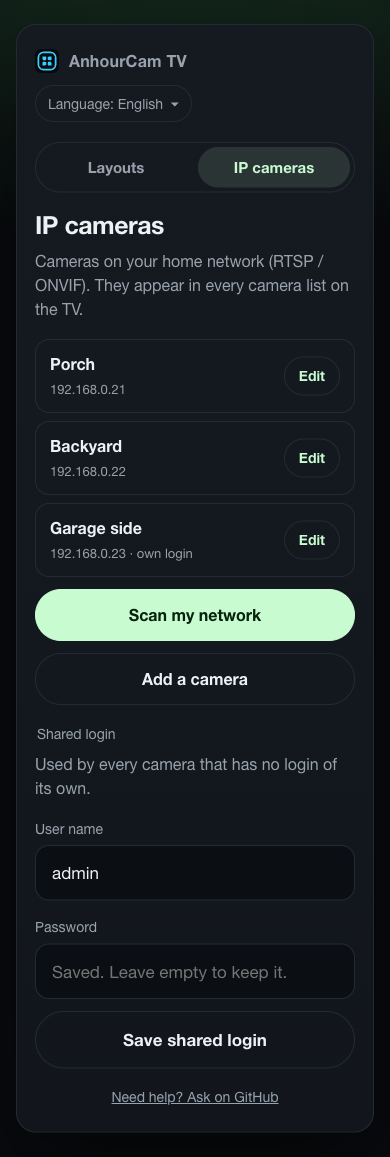
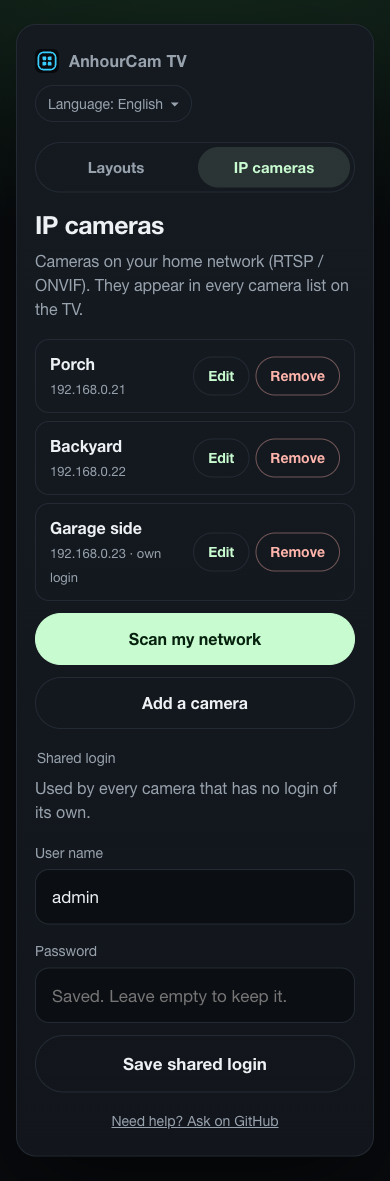
docs: add the Xiaomi Mi Box 4K as a tested device

diff --git a/docs/devices/xiaomi-mi-box-4k.md b/docs/devices/xiaomi-mi-box-4k.md
@@ -1,0 +1,56 @@
+# Xiaomi Mi Box 4K (Amlogic), Android TV 9
+
+The project's second test device (model string `MIBOX4`, device `oneday`): an older Android TV
+streamer, tested on 2026-10-30. Useful as the "older Android" check: Android 9 lacks many newer
+JDK methods that the desktop-built modules could accidentally use.
+
+| | |
+|---|---|
+| OS | Android TV 9 (API 28), Xiaomi build, Google Play present |
+| SoC | Amlogic, `gxl` platform (S905X family), **32-bit apps** (`armeabi-v7a`) |
+| RAM | 2 GB (`MemTotal` 2,034,840 kB) |
+| Output | 1920×1080 UI (4K video capable) |
+| Debugging | Developer options → USB debugging also opens **network ADB on port 5555**: `adb connect <ip>:5555`, accept "Allow USB debugging?" on the TV. No pairing code (that is Android 11+). |
+
+## Video decoders (from `/vendor/etc/media_codecs.xml`)
+
+| Decoder | Type | Max size | Concurrent instances (declared) |
+|---|---|---|---|
+| `OMX.amlogic.hevc.decoder.awesome` | **hardware** H.265 | 3840×2160 | 9 |
+| `OMX.amlogic.avc.decoder.awesome` | **hardware** H.264 | 3840×2160 | 9 |
+| `OMX.google.hevc.decoder` | software H.265 | 4096×4096 | CPU-bound |
+| `OMX.google.h264.decoder` | software H.264 | 2048×2048 | CPU-bound |
+
+The declared 9 instances is an upper bound from the vendor file, not a measured number; the
+decoder budget treats it as 9 hardware slots (+ 2 software). How many tiles really stay smooth is
+still to be measured (open question #28).
+
+## Measured with AnhourCam TV (2026-10-30)
+
+- Install, launch, sign-in screen (1080p), phone pairing page and BitVision sign-in from a phone:
+  **work**.
+- App footprint with a 2×2 grid: ~98 MB RSS / 34 MB PSS, ~28 % of one core.
+- 2×2 BitVision grid while the Google TV was streaming the **same NVR channels** at the same time:
+
+| Tile | Stream | Decoder | Result |
+|---|---|---|---|
+| HOME CH1 | 720×480 SD | hardware | 26 fps, first picture after 19 s |
+| HOME CH3 | SD | hardware | live in 5 s |
+| admin CH1 | 720×576 SD | hardware | 20 fps, 1 drop, **picture black** (camera or decoder: checking) |
+| HOME CH2, admin CH2 | SD | — | "No video": both were also playing on the Google TV (suspected NVR stream limit, #19/#29) |
+| HOME CH4 | — | — | no camera on that input (as on every device, #9) |
+
+## Bugs this device found (fixed)
+
+1. **Crash when the phone opened the pairing page**: `ByteArrayOutputStream.toString(Charset)` is
+   Android 13+; the TV crashed with `NoSuchMethodError`. A full scan found 12 more calls newer
+   than the app's minimum (Android 7.1): `URLDecoder.decode(String, Charset)` (13+), `java.time`
+   and `java.util.Base64` (8+). All replaced; `scripts/check-android-api.py` now runs in
+   `./gradlew check` so the pure-JVM modules can never use APIs newer than minSdk again.
+2. **"Use IP cameras only" was clipped** below the on-TV sign-in card on 960×540 dp screens; moved
+   to the bottom of the phone column.
+
+## Setup gotcha on the maintainer's network
+
+The Mi Box first reported an address (`<IP_1>`) that an IP camera also uses (same address, ARP showed
+the camera's MAC prefix): the Mi Box was unreachable. Fixed by giving it a free static address.

diff --git a/docs/sessions/2026-10-30-mi-box.md b/docs/sessions/2026-10-30-mi-box.md
@@ -1,0 +1,19 @@
+# 2026-10-30 — Second test device: Xiaomi Mi Box 4K
+
+## Done
+- Found the Mi Box on the network: it shared `<IP_1>` with an IP camera (ARP: camera MAC
+  prefix); the maintainer gave it a free static address. Network ADB on 5555 after USB debugging.
+- `MIBOX4`, Android 9 (API 28), Amlogic `gxl`, 2 GB, hardware HEVC/AVC decoders (9 declared each).
+- Crash when the phone opened the pairing page: `ByteArrayOutputStream.toString(Charset)` is API 33.
+  Wrote `scripts/check-android-api.py` (javap + SDK `api-versions.xml`), found 13 calls newer than
+  minSdk 25 in `:pairing` / `:ipcam` (API 33 and 26), replaced them all, and added the check to
+  `./gradlew check`.
+- "Use IP cameras only" was clipped on 960×540 dp screens: moved to the phone column.
+- Dashboard: each IP camera row has a Remove button with a confirmation page; removing a camera
+  clears it from every layout on the TV.
+- Maintainer signed in to BitVision on the Mi Box from a phone; tiles play on hardware decoders.
+
+## Open
+- Channels also playing on the Google TV showed "No video" on the Mi Box (#29), one tile black (#30),
+  real tile limit (#28). Experiment: stop the Google TV, watch the Mi Box tiles recover.
+- Another Android 6.0 MStar TV on the LAN has network ADB open; below minSdk, not used.

diff --git a/docs/open-questions.md b/docs/open-questions.md
@@ -31,3 +31,6 @@ Anything not directly observed. Code that relies on one of these carries `// INF
 | 24 | H.264 decoder count on the test TV | open (inferred) | H.264 tiles take a slot from the shared HEVC budget and use the TV's AVC decoder of the same kind; verify with an H.264 camera |
 | 26 | Real bitrate of the RTSP sub-stream | **resolved** | Saved 10 s clip (never viewed, deleted): ffmpeg decoded 250/250 frames, 0 errors, 1280×720 HEVC Main, VPS/SPS/PPS + 1 IDR + 249 P. Low bitrate = still night scene |
 | 27 | Cameras with broken ONVIF clocks | **handled** | One camera sends minute -15; clock read arithmetically, ignored if invalid; crashes guarded at the dashboard and tile level |
+| 28 | Real live-tile limit on the Mi Box 4K | open | Vendor file declares 9 hardware HEVC/AVC instances; measure smooth tiles in 3×3 / 4×4 |
+| 29 | Two TVs streaming the same NVR channels | checking | On the Mi Box, the two channels the Google TV was also playing showed "No video"; experiment: stop the Google TV and watch them recover |
+| 30 | Black picture on admin CH1 on the Mi Box | checking | 20 fps decoded but black: dark/covered camera, or Amlogic render issue |

diff --git a/README.md b/README.md
@@ -125,6 +125,15 @@ Watch or star the repo to hear about the first release.
 How many cameras play live at once depends on your device's video decoder. Tiles beyond that
 show a still image until you select them.
 
+**Tested on** (details and measurements in [docs/devices](docs/devices/)):
+
+| Device | Android | Result |
+|---|---|---|
+| Skyworth Google TV (MediaTek MT5867, 1 GB) | 14 | ✅ BitVision + IP cameras; 4 live tiles (2 hardware + 2 software) |
+| Xiaomi Mi Box 4K (Amlogic, 2 GB) | 9 | ✅ installs, phone sign-in, BitVision live tiles on hardware decoders (multi-tile limits being measured) |
+
+Found a device that works (or doesn't)? Please [open an issue](https://github.com/anhourtec/AnhourCam-TV/issues/new/choose) with the **Device report** form.
+
 ## Install
 
 AnhourCam TV isn't on Google Play or the Amazon Appstore; you install it yourself ("sideload").

diff --git a/docs/architecture.md b/docs/architecture.md
@@ -183,3 +183,4 @@ rate limits + body size limits · no credential/token logging.
 | 2026-10-29 | IP camera list in `ipcams.json`, passwords in the Keystore `SecretStore` | Same atomic-file approach as layouts; secrets never in plain files |
 | 2026-10-29 | H.264 IP cameras share the HEVC decoder budget (one slot each) | INFERRED: TVs share decoder hardware between codecs; keeps one simple budget (open question #24) |
 | 2026-10-29 | "Use IP cameras only": `DeviceDirectory` portal is optional; mode remembered in app prefs | The app is useful without BitVision; BitVision code paths unchanged |
+| 2026-10-30 | `scripts/check-android-api.py` runs in `./gradlew check` for every pure-JVM module the app uses | Android Lint doesn't check them; a JDK method newer than minSdk crashed the Mi Box (Android 9) |

diff --git a/docs/roadmap.md b/docs/roadmap.md
@@ -17,6 +17,8 @@ _Last updated: 2026-10-29 (Phase 6 done and verified on the TV; next: release to
 - [x] 6e Brand presets, README + screenshots, Help → GitHub issues
 - [x] 6f Real camera added from the phone and playing on the TV (1080p H.265, 25 fps, 0.5 s to first frame)
 - [ ] H.264 camera check (#24), IP-only mode on a spare TV
+- [x] Second device: Xiaomi Mi Box 4K (Android 9) — installs, phone sign-in, BitVision tiles; found and fixed Android-version crashes; API check in the build
+- [ ] Mi Box: tile limit (#28), two TVs on one NVR (#29), black tile (#30)
 - Rule: BitVision keeps working exactly as today after every step.
 - After 6e: release (GitHub APK, Play Store) **together with the maintainer**; checklists in the local `todo.md`.
 

diff --git a/docs/progress.md b/docs/progress.md
@@ -86,3 +86,9 @@ built or tested.
 (scan, ONVIF / brand / RTSP URL, test-then-save, shared or per-camera login, 5 languages), 6d
 "Use IP cameras only", 6e brand presets + README. BitVision verified unchanged on the TV after each
 install. Pending: the maintainer adds a real camera from the phone and checks its tile.
+
+### Second device: Xiaomi Mi Box 4K (2026-10-30)
+Android 9, Amlogic, 2 GB. Installs and runs; phone sign-in and BitVision tiles work on hardware
+decoders. It exposed crashes from JDK methods newer than Android 7.1/9 in the pure-JVM modules
+(fixed; build-time API check added) and a clipped sign-in button (fixed). Details:
+[docs/devices/xiaomi-mi-box-4k.md](devices/xiaomi-mi-box-4k.md).
